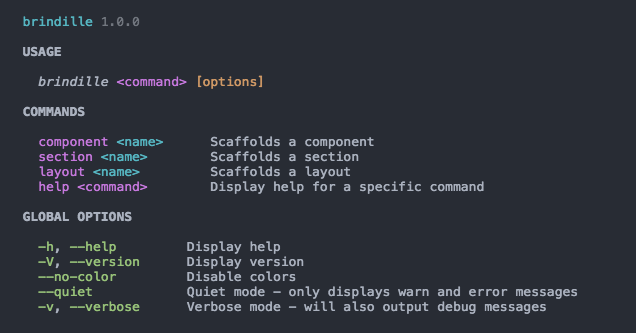
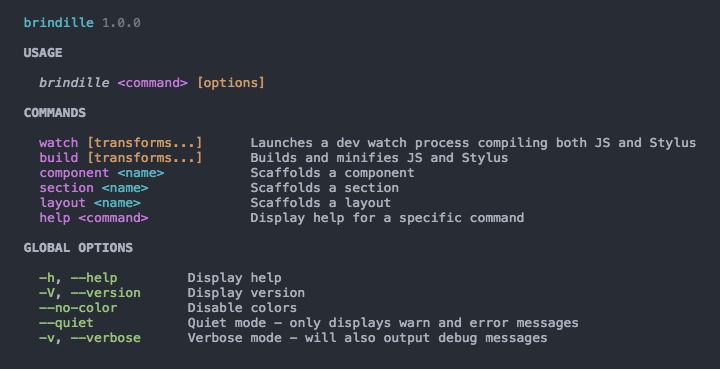
watch and build tasks

diff --git a/lib/stylus.js b/lib/stylus.js
@@ -1,0 +1,70 @@
+var fs = require('fs')
+var chalk = require('chalk')
+var stylus = require('stylus')
+var chokidar = require('chokidar')
+var autoprefixer = require('autoprefixer-stylus')
+var fontFace = require('stylus-font-face')
+
+var localDirectory = '/public/build'
+var fileName = 'main.css'
+var directory = process.cwd() + localDirectory
+var output = directory + '/' + fileName
+var localOutput = localDirectory + '/' + fileName
+var sourcemapOutput = output + '.map'
+var time = 0
+var style = null
+var outputPath = output.split('/')
+var filename = outputPath[outputPath.length - 1]
+var isProd = false
+
+function stylusTask (entry, options, logger) {
+  isProd = options.isProd
+  logger.info('Launching', chalk.gray('stylus'), chalk.dim(isProd ? 'build' : 'watch') + '\n')
+  if (!options.isProd) {
+    chokidar.watch('src/**/*.styl').on('change', () => {
+      bundle(entry)
+    })
+  }
+  bundle(entry, options.isProd)
+}
+
+function bundle (file, isProd) {
+  time = Date.now()
+  const str = fs.readFileSync(file, 'utf8')
+  style = stylus(str)
+    .set('filename', filename)
+    .set('paths', [process.cwd() + '/src/stylus'])
+    .set('compress', isProd)
+    .set('sourcemap', true)
+    .use(autoprefixer())
+    .use(fontFace({}))
+  style.render(onRendered)
+}
+
+function onRendered (err, css) {
+  if (err) console.log(err)
+  fs.writeFile(output, css, onSaved)
+  fs.writeFile(sourcemapOutput, JSON.stringify(style.sourcemap), onSourceMapSaved)
+}
+
+function onSourceMapSaved (err) {
+  if (err) console.log(err)
+}
+
+function onSaved (err) {
+  if (err) console.log(err)
+  const msg = isProd ? 'bundled and minified ' : 'bundled '
+  time = Date.now() - time
+  console.log(
+    chalk.dim('[') +
+    chalk.green('css') +
+    chalk.dim('] ') +
+    chalk.gray(msg) +
+    chalk.yellow(localOutput) +
+    chalk.dim(' in ') +
+    chalk.blue(time) +
+    chalk.dim(' ms')
+  )
+}
+
+module.exports = stylusTask

diff --git a/lib/browserify.js b/lib/browserify.js
@@ -1,0 +1,69 @@
+var fs = require('fs')
+var browserify = require('browserify')
+var watchify = require('watchify')
+var chalk = require('chalk')
+var UglifyJS = require('uglify-js')
+var mkdirp = require('mkdir-p')
+
+var b = null
+var localDirectory = '/public/build'
+var fileName = 'build.js'
+var directory = process.cwd() + localDirectory
+var output = directory + '/' + fileName
+var localOutput = localDirectory + '/' + fileName
+
+function browserifyTask (entry, options, logger) {
+  const isProd = options.isProd
+  if (options.o) {
+    output = options.o
+  }
+
+  logger.info('\nLaunching', chalk.gray('browserify'), chalk.dim(isProd ? 'build' : 'watch'))
+
+  mkdirp(directory, (err) => {
+    if (err) logger.error(err)
+    b = browserify({
+      entries: [entry],
+      cache: {},
+      debug: !isProd,
+      transform: options.transforms,
+      packageCache: {},
+      plugin: isProd ? [] : [watchify]
+    })
+    if (!isProd) {
+      b.on('update', () => {
+        bundle(logger)
+      })
+    }
+    bundle(logger, isProd)
+  })
+}
+
+function bundle (logger, isProd) {
+  const startTime = Date.now()
+  b.bundle().pipe(fs.createWriteStream(output)).on('finish', () => {
+    if (isProd) {
+      fs.writeFile(output, UglifyJS.minify(output).code, () => {
+        onTime(logger, Date.now() - startTime, isProd)
+      })
+    } else {
+      onTime(logger, Date.now() - startTime)
+    }
+  })
+}
+
+function onTime (logger, time, isProd) {
+  const msg = isProd ? 'bundled and minified ' : 'bundled '
+  logger.info(
+    chalk.dim('[') +
+    chalk.red('js') +
+    chalk.dim(']  ') +
+    chalk.gray(msg) +
+    chalk.yellow(localOutput) +
+    chalk.dim(' in ') +
+    chalk.blue(time) +
+    chalk.dim(' ms')
+  )
+}
+
+module.exports = browserifyTask

diff --git a/lib/scaffold.js b/lib/scaffold.js
@@ -1,0 +1,41 @@
+const path = require('path')
+const chalk = require('chalk')
+const kebab = require('lodash.kebabcase')
+const capitalize = require('lodash.capitalize')
+const Metalsmith = require('metalsmith')
+const inPlace = require('metalsmith-in-place')
+const rename = require('metalsmith-rename')
+const pluralize = require('pluralize')
+
+function scaffold (options, logger) {
+  const name = options.name
+  const kebabName = kebab(name)
+  const localDir = '/src/views/' + options.type + '/' + kebabName
+  const dir = process.cwd() + localDir
+
+  Metalsmith(__dirname)
+    .metadata({
+      ComponentName: name,
+      section: options.type === 'sections',
+      interactive: options.interactive
+    })
+    .source(path.join(__dirname, '../lib/templates/component'))
+    .destination(dir)
+    .use(inPlace())
+    .use(rename([
+      [/component.js$/, name + '.js'],
+      [/component/, kebabName]
+    ]))
+    .build(function (err) {
+      if (err) throw err
+    })
+
+  logger.info(
+    '\n' + chalk.dim(capitalize(pluralize.singular(options.type))),
+    chalk.red(name),
+    chalk.dim('was created in'),
+    chalk.red(localDir)
+  )
+}
+
+module.exports = scaffold

diff --git a/lib/utils/logger.js b/lib/utils/logger.js
@@ -1,0 +1,29 @@
+const winston = require('winston')
+const util = require('util')
+
+const CaporalTransport = function (options) {
+  this.name = 'caporal'
+  this.level = options.level || 'info'
+}
+
+util.inherits(CaporalTransport, winston.Transport)
+
+CaporalTransport.prototype.log = function (level, msg, meta, callback) {
+  msg = msg + '\n'
+  const levelInt = winston.levels[level]
+  const stdio = levelInt <= 1 ? 'stderr' : 'stdout'
+  process[stdio].write(msg)
+  callback(null, true, stdio)
+}
+
+exports.createLogger = function createLogger (opts) {
+  opts = opts || {}
+
+  const logger = exports.logger = new (winston.Logger)({
+    transports: [
+      new (CaporalTransport)(opts)
+    ]
+  })
+
+  return logger
+}

diff --git a/README.md b/README.md
@@ -1,13 +1,47 @@
 # brindille-cli
-A CLI tool to help you build Brindille apps
+A CLI tool to help you build Brindille apps.
+
+![Snapshot](help.png)
 
 ## Install
-```bash
+```sh
 npm install -g brindille-cli
 ```
 
 ## Use
-```bash
+From the root of your brindille project in the terminal:
+```sh
+# launches watchify and stylus in watch mode
+brindille watch
+
+# launches watchify and stylus in build mode
+brindille build
+
+# scaffolds a MyCompName component in /src/views/components/my-comp-name
 brindille component MyCompName
+
+# scaffolds a MyLayout component in /src/views/layouts/my-layout
+brindille layout MyLayout
+
+# scaffolds a MySection component in /src/views/sections/my-section
+brindille section MySection
 ```
-![Snapshot](help.png)
+
+### Builders
+The `watch` and `build` tasks are just wrappers around [stylus](http://stylus-lang.com/) and [browserify](http://browserify.org/) with our default configuration and a prettier console output.
+
+You can optionnaly add browserify transforms to both `watch` and `build` tasks :
+```sh
+brindille watch babelify glslify
+```
+
+
+### Scaffolders
+Wa have three different scaffolding functions which are in reality very similar: `component`, `layout` and `section`. The main difference between these is the folder where the component will be created (although a section will have a slightly different codebase than the others).
+
+The name of the component must be in PascalCase.
+
+You can chose to make the component extends [brindille-interactive-component](https://github.com/brindille/brindille-interactive-component) instead of [brindille-component](https://github.com/brindille/brindille-component):
+```sh
+brindille component MyCompName --interactive
+```
